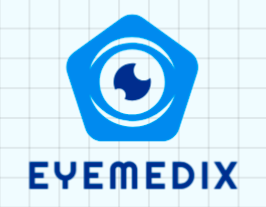
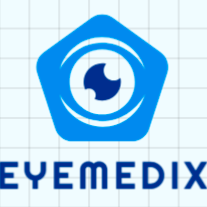
cambio y personalizacion a marca del sistema

diff --git a/test/widget_test.dart b/test/widget_test.dart
@@ -8,7 +8,7 @@
 import 'package:flutter/material.dart';
 import 'package:flutter_test/flutter_test.dart';
 
-import 'package:EyeMedix/main.dart';
+import 'package:eye_medix/main.dart';
 
 void main() {
   testWidgets('Counter increments smoke test', (WidgetTester tester) async {

diff --git a/README.md b/README.md
@@ -1,16 +1,3 @@
-# front_optica
+# Eye Medix
 
-A new Flutter project.
-
-## Getting Started
-
-This project is a starting point for a Flutter application.
-
-A few resources to get you started if this is your first Flutter project:
-
-- [Lab: Write your first Flutter app](https://docs.flutter.dev/get-started/codelab)
-- [Cookbook: Useful Flutter samples](https://docs.flutter.dev/cookbook)
-
-For help getting started with Flutter development, view the
-[online documentation](https://docs.flutter.dev/), which offers tutorials,
-samples, guidance on mobile development, and a full API reference.
+A solution for Opticians
